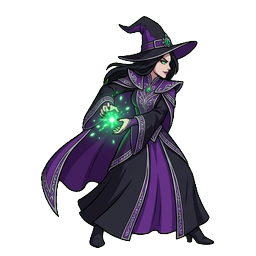
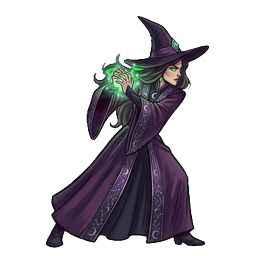
art: yeni sanat yonu ile yenilenen gorseller

diff --git a/sw.js b/sw.js
@@ -1,5 +1,5 @@
 // Çevrimdışı çalışma: kod ve sayfa önce ağdan (güncel sürüm), görseller önce önbellekten.
-const CACHE = 'hexling-v169';
+const CACHE = 'hexling-v170';
 const CORE = ['index.html', 'manifest.webmanifest', 'dist/main.js', 'dist/minis.js', 'dist/game.js', 'dist/data.js', 'dist/audio.js', 'dist/settings.js', 'dist/i18n.js', 'dist/scenery.js', 'dist/version.js', 'dist/billing.js', 'dist/ads.js', 'dist/fight.js', 'dist/hof.js', 'dist/house.js', 'dist/meta.js', 'dist/quests.js', 'dist/story.js', 'dist/tiger.js', 'dist/notify.js', 'dist/mine.js', 'dist/mine3d.js', 'vendor/three.min.js', 'assets/manifest.json', 'assets/title_bg.jpg', 'assets/arena_bg.jpg', 'icons/icon-192.png'];
 
 self.addEventListener('install', (e) => {
